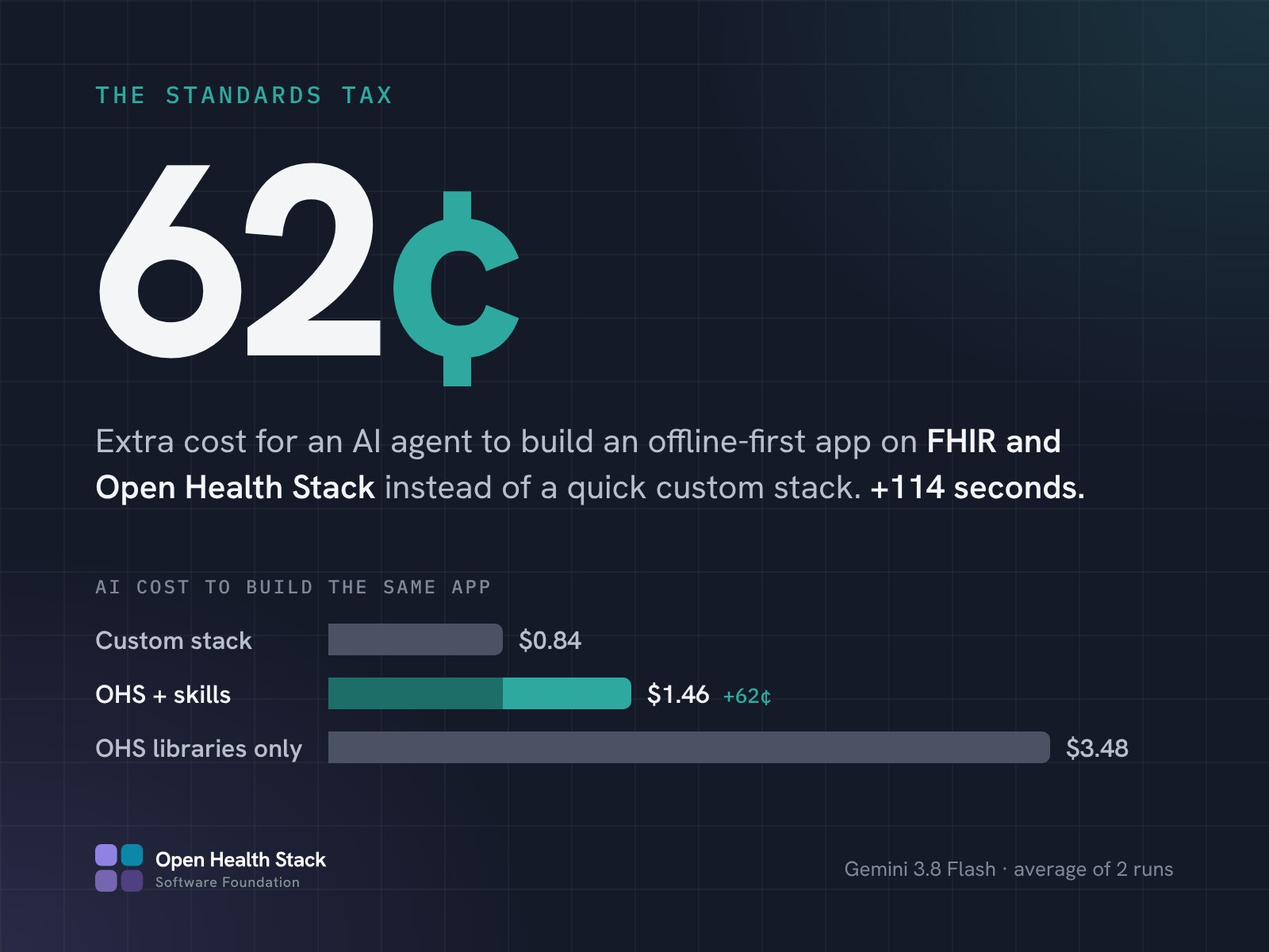
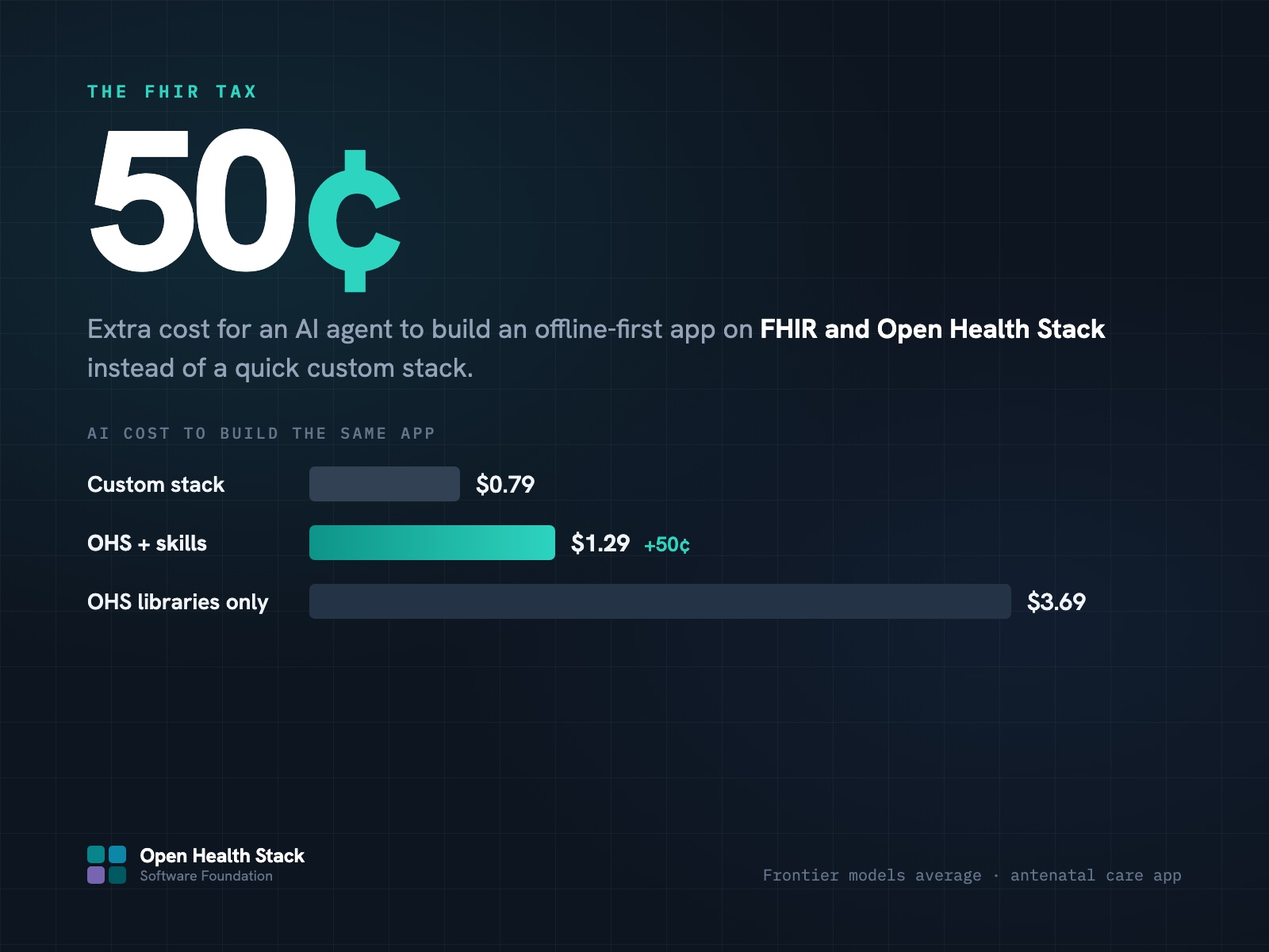
content: update 'The FHIR Tax Is Shrinking' post and cover image
- Update post content with four-way experiment results and frontier models benchmark
- Add Jing Tang to data/authors.yaml and support multi-author posts in blog templates
- Update cover.jpg and card.jpg to reflect 'The FHIR Tax' and 50¢ average cost
- Style 10-point evaluation criteria callout and closer CTA

diff --git a/layouts/_partials/head.html b/layouts/_partials/head.html
@@ -47,20 +47,27 @@
   <meta property="article:published_time" content="{{ .Date.Format "2006-01-02T15:04:05Z07:00" }}" />
   {{- with .Lastmod }}<meta property="article:modified_time" content="{{ .Format "2006-01-02T15:04:05Z07:00" }}" />{{ end }}
   {{- $author := partial "blog/author.html" . }}
-  {{- with $author.name }}<meta property="article:author" content="{{ $author.linkedin | default . }}" />{{ end }}
+  {{- range ($author.list | default (slice $author)) }}
+    {{- if .name }}<meta property="article:author" content="{{ .linkedin | default .name }}" />{{ end }}
+  {{- end }}
   {{- with .Params.category }}<meta property="article:section" content="{{ . }}" />{{ end }}
   {{- /* Structured data so search engines can show the post with its author and date. */}}
   {{- $ld := dict "@context" "https://schema.org" "@type" "BlogPosting" "headline" .Title "description" $desc "url" $url "datePublished" (.Date.Format "2006-01-02T15:04:05Z07:00") "dateModified" (.Lastmod.Format "2006-01-02T15:04:05Z07:00") "publisher" (dict "@type" "Organization" "name" site.Title "url" site.Home.Permalink) }}
   {{- with $ogImage }}{{ $ld = merge $ld (dict "image" .url) }}{{ end }}
-  {{- with $author.name }}
-    {{- $person := dict "@type" (cond (isset $author "key") "Person" "Organization") "name" . }}
-    {{- $same := slice }}
-    {{- with $author.linkedin }}{{ $person = merge $person (dict "url" .) }}{{ $same = $same | append . }}{{ end }}
-    {{- with $author.github }}{{ $same = $same | append (printf "https://github.com/%s" .) }}{{ end }}
-    {{- with $same }}{{ $person = merge $person (dict "sameAs" .) }}{{ end }}
-    {{- with $author.role }}{{ $person = merge $person (dict "jobTitle" .) }}{{ end }}
-    {{- $ld = merge $ld (dict "author" $person) }}
+  {{- $persons := slice -}}
+  {{- range ($author.list | default (slice $author)) }}
+    {{- if .name }}
+      {{- $person := dict "@type" (cond (isset . "key") "Person" "Organization") "name" .name }}
+      {{- $same := slice }}
+      {{- with .linkedin }}{{ $person = merge $person (dict "url" .) }}{{ $same = $same | append . }}{{ end }}
+      {{- with .github }}{{ $same = $same | append (printf "https://github.com/%s" .) }}{{ end }}
+      {{- with $same }}{{ $person = merge $person (dict "sameAs" .) }}{{ end }}
+      {{- with .role }}{{ $person = merge $person (dict "jobTitle" .) }}{{ end }}
+      {{- $persons = $persons | append $person -}}
+    {{- end }}
   {{- end }}
+  {{- if eq (len $persons) 1 }}{{ $ld = merge $ld (dict "author" (index $persons 0)) }}
+  {{- else if gt (len $persons) 1 }}{{ $ld = merge $ld (dict "author" $persons) }}{{ end }}
   <script type="application/ld+json">{{ $ld | jsonify | safeJS }}</script>
   {{- end }}
   {{- with site.Home.OutputFormats.Get "rss" }}

diff --git a/layouts/_partials/blog/author.html b/layouts/_partials/blog/author.html
@@ -1,15 +1,38 @@
 {{- /*
-  The author of a post as a dict {key, name, role, linkedin, github, photo}.
-  `author:` in the post is either a key from data/authors.yaml or plain text,
-  which becomes just the name. Returns an empty dict when there's no author.
+  The author(s) of a post as a dict {key, name, role, linkedin, github, photo, list}.
+  `author:` in the post is either a key from data/authors.yaml, a list of keys,
+  or plain text. Returns an empty dict when there's no author.
 */ -}}
-{{- $out := dict -}}
-{{- with .Params.author -}}
+{{- $raw := .Params.author | default .Params.authors -}}
+{{- $items := slice -}}
+{{- if reflect.IsSlice $raw -}}
+  {{- $items = $raw -}}
+{{- else if $raw -}}
+  {{- $items = slice $raw -}}
+{{- end -}}
+
+{{- $authorList := slice -}}
+{{- $names := slice -}}
+{{- range $items -}}
   {{- $key := . -}}
   {{- with index (hugo.Data.authors | default dict) $key -}}
-    {{- $out = merge . (dict "key" $key) -}}
+    {{- $a := merge . (dict "key" $key) -}}
+    {{- $authorList = $authorList | append $a -}}
+    {{- $names = $names | append .name -}}
   {{- else -}}
-    {{- $out = dict "name" $key -}}
+    {{- $a := dict "name" $key -}}
+    {{- $authorList = $authorList | append $a -}}
+    {{- $names = $names | append $key -}}
   {{- end -}}
+{{- end -}}
+
+{{- $out := dict -}}
+{{- if gt (len $authorList) 0 -}}
+  {{- $first := index $authorList 0 -}}
+  {{- $nameJoined := delimit $names ", " -}}
+  {{- if eq (len $names) 2 -}}
+    {{- $nameJoined = delimit $names " and " -}}
+  {{- end -}}
+  {{- $out = merge $first (dict "name" $nameJoined "list" $authorList) -}}
 {{- end -}}
 {{- return $out -}}

diff --git a/layouts/blog/page.html b/layouts/blog/page.html
@@ -15,7 +15,14 @@
           <span class="mchip">{{ . }}</span>
           {{- end }}
           {{- with partial "blog/author.html" . }}{{ if .name }}
-          <span class="byline">{{ T "by" }} {{ if .linkedin }}<a href="{{ .linkedin }}" target="_blank" rel="noopener"><b>{{ .name }}</b></a>{{ else }}<b>{{ .name }}</b>{{ end }}</span>
+          <span class="byline">{{ T "by" }} {{ if gt (len .list) 1 -}}
+            {{- range $i, $a := .list -}}
+              {{- if gt $i 0 }} and {{ end -}}
+              {{- if $a.linkedin }}<a href="{{ $a.linkedin }}" target="_blank" rel="noopener"><b>{{ $a.name }}</b></a>{{ else if $a.github }}<a href="https://github.com/{{ $a.github }}" target="_blank" rel="noopener"><b>{{ $a.name }}</b></a>{{ else }}<b>{{ $a.name }}</b>{{ end -}}
+            {{- end -}}
+          {{- else -}}
+            {{- if .linkedin }}<a href="{{ .linkedin }}" target="_blank" rel="noopener"><b>{{ .name }}</b></a>{{ else if .github }}<a href="https://github.com/{{ .github }}" target="_blank" rel="noopener"><b>{{ .name }}</b></a>{{ else }}<b>{{ .name }}</b>{{ end -}}
+          {{- end }}</span>
           {{- end }}{{ end }}
           <time datetime="{{ .Date.Format "2006-01-02" }}">{{ .Date.Format "January 2, 2006" }}</time>
           <span>· {{ .ReadingTime }} {{ T "minRead" }}</span>

diff --git a/layouts/_partials/blog/author-box.html b/layouts/_partials/blog/author-box.html
@@ -1,5 +1,6 @@
 {{- /* "About the author" box at the end of a post (only for authors listed in data/authors.yaml). */ -}}
-{{- $a := partial "blog/author.html" . -}}
+{{- $auth := partial "blog/author.html" . -}}
+{{- range $a := ($auth.list | default (slice $auth)) -}}
 {{- if $a.key }}
 <aside class="author-box reveal" aria-label="{{ T "aboutTheAuthor" }}">
   {{- with partial "blog/author-photo.html" (dict "author" $a "size" 72) }}
@@ -12,6 +13,8 @@
     <span class="ab-label">{{ T "aboutTheAuthor" }}</span>
     {{- if $a.linkedin }}
     <a class="ab-name" href="{{ $a.linkedin }}" target="_blank" rel="noopener">{{ $a.name }}</a>
+    {{- else if $a.github }}
+    <a class="ab-name" href="https://github.com/{{ $a.github }}" target="_blank" rel="noopener">{{ $a.name }}</a>
     {{- else }}
     <span class="ab-name">{{ $a.name }}</span>
     {{- end }}
@@ -24,4 +27,5 @@
     {{- end }}
   </div>
 </aside>
+{{- end }}
 {{- end }}

diff --git a/assets/css/pages/post.css b/assets/css/pages/post.css
@@ -207,6 +207,10 @@
   background: var(--surface);
 }
 
+.author-box + .author-box {
+  margin-top: 16px;
+}
+
 .ab-photo {
   flex: none;
   width: 72px;
@@ -277,6 +281,30 @@ a.ab-name:hover { color: var(--teal); }
   line-height: 1.35;
   letter-spacing: -0.015em;
   color: var(--ink);
+}
+
+.callout ul {
+  margin: 14px 0 0;
+  padding: 0;
+  display: grid;
+  gap: 8px;
+  list-style: none;
+}
+
+.callout ul li {
+  position: relative;
+  padding-left: 20px;
+  font-size: 1.05rem;
+  line-height: 1.5;
+  color: oklch(0.34 0.018 210);
+}
+
+.callout ul li::before {
+  content: "—";
+  position: absolute;
+  left: 0;
+  color: var(--teal-deep);
+  font-weight: 600;
 }
 
 .closer {

diff --git a/content/blog/fhir-standards-tax/index.md b/content/blog/fhir-standards-tax/index.md
@@ -1,141 +1,93 @@
 ---
-title: "The Standards Tax Is Shrinking: What Happens When Building on FHIR Costs 62 Cents?"
+title: "The “FHIR Tax” Is Shrinking"
 date: 2026-10-20
-author: fikri-milano
+author:
+  - fikri-milano
+  - jing-tang
 category: "Research"
-summary: "We had AI coding agents build the same offline-first antenatal care app three ways. Building on FHIR and Open Health Stack cost just 62 cents more than a quick-and-dirty custom stack, and produced an app whose data isn't trapped on the device."
+summary: "We had AI coding agents build the same offline-first antenatal care app four ways. Combining AI coding agents with Open Health Stack libraries and Agent Skills significantly reduces the “FHIR tax” — building a fully working offline-first FHIR app for under $1."
 cover: cover.jpg
-coverAlt: "62 cents: the extra AI cost of building an offline-first app on FHIR and Open Health Stack. A bar chart compares the cost to build the same app: custom stack $0.84, Open Health Stack with skills $1.46, Open Health Stack libraries only $3.48."
+coverAlt: "50 cents: the extra AI cost of building an offline-first app on FHIR and Open Health Stack with skills. A bar chart compares the average cost across frontier models to build the same app: custom stack $0.79, Open Health Stack with skills $1.29 (+50¢), Open Health Stack libraries only $3.69."
 cardImage: card.jpg       # narrower 4:3 picture for the blog page's featured card
-shortTitle: "The standards tax is shrinking"
+shortTitle: "The “FHIR Tax” is shrinking"
 readMore: "Read the experiment"
 draft: false
 ---
 
-**For decades, digital health projects skipped open standards because implementing HL7 FHIR is notoriously complex — requiring specialized domain knowledge, custom validators, and resilient sync engines. In resource-constrained healthtech, building bespoke APIs was the pragmatic choice, leading to pervasive "pilotitis" where trapped data dies alongside retiring app contracts.**
+For years, digital health projects skipped open standards like [HL7 FHIR](https://fhir.org/) because implementation was complex and time-consuming. Instead, teams built custom data models, resulting in fragmented, siloed data and ultimately hampering interoperability efforts. When we launched Open Health Stack (OHS) in 2023, our goal was to lower the barriers to working with FHIR, and to make it the obvious choice for digital health developers. Today, we show that combining AI coding agents with the OHS libraries and Agent Skills has significantly reduced the “FHIR tax” for developers.
 
-Recently, [Health Samurai](https://www.health-samurai.io/articles/fhir-as-a-framework-for-agentic-coding) suggested that AI coding agents might break this cycle. Their hypothesis: **FHIR provides ready-made "rails" for agentic coding.** A standardized clinical data model and strict server-side validation constrain what an agent can produce, preventing the hallucinations, schema drift, and architectural decay typical of unconstrained coding sessions.
+## The Experiment: Building the Same Digital Health App Four Ways
 
-Their early evidence was qualitative, drawn from rebuilding an internal Personal Health Record twice with Claude Code. We wanted to put hard empirical numbers to this idea in a real-world, frontline mobile health context. And the results are pretty interesting. Read on.
+Recently, [Health Samurai](https://www.health-samurai.io/articles/fhir-as-a-framework-for-agentic-coding) showed qualitatively that FHIR could act as the ready-made “rails” for AI coding agents. Inspired by this work, and to demonstrate it more empirically, we built an [automated test harness](https://github.com/ohs-foundation/ohs-labs/tree/main/ohs-agent-experiment) to evaluate AI coding agents' ability to build an offline-first Android Antenatal Care (ANC) register from a prompt. A successfully built app (e.g., [here](https://raw.githubusercontent.com/ohs-foundation/ohs-labs/main/ohs-agent-experiment/runs/s1-ohs-skills-gemini-3.8-flash-medium-15/launch.png)) had to list patients, show their visit history, record new visits, retain data after a restart, and demonstrate 2-way sync with a FHIR server.
 
-## The Experiment: Building the Same Digital Health App Three Ways
+**We compared four ways of building it:**
 
-We built an automated test harness to evaluate autonomous AI coding agents constructing an offline-first Android Antenatal Care (ANC) register from scratch. Requirements included patient registration, visit history tracking, clinical data entry, and offline persistence with bidirectional server sync.
+1. **No FHIR:** The agent received a [blank Android project](https://github.com/ohs-foundation/ohs-labs/tree/main/ohs-agent-experiment/harness/template-src/cold) and was free to design the data model and store data any way it saw fit. This was used as the baseline for the costs of not using FHIR (though there are limitations here, as no back-end was developed).
+2. **FHIR only:** The agent received a [blank Android project](https://github.com/ohs-foundation/ohs-labs/tree/main/ohs-agent-experiment/harness/template-src/fhir) and the same local HAPI FHIR server, but no OHS libraries. It was free to use any library to work with FHIR.
+3. **FHIR + OHS Libraries:** The [project](https://github.com/ohs-foundation/ohs-labs/tree/main/ohs-agent-experiment/harness/template-src/ohs) came with three [Open Health Stack](https://ohs.foundation) Kotlin Multiplatform libraries: [Kotlin FHIR Models](https://github.com/ohs-foundation/kotlin-fhir), [Kotlin FHIR Engine](https://github.com/ohs-foundation/kotlin-fhir-engine), and [Kotlin FHIR Data Capture](https://github.com/ohs-foundation/kotlin-fhir-data-capture) (FHIR Models, FHIR Engine, and Data Capture, respectively). It also came with a local HAPI FHIR server and no extra documentation for the agent.
+4. **FHIR + OHS Libraries + Skills:** The same OHS setup plus three short [Agent Skills (SKILL.md)](https://github.com/ohs-foundation/ohs-labs/tree/main/ohs-agent-experiment/skills). A skill is a Markdown file with additional instructions for using the libraries that the agent reads while it works.
 
-We evaluated this build across three distinct conditions:
+We ran each condition twice on six models (in order of our tests). Anthropic’s Claude Haiku 5.5, Sonnet 5.5, Opus 5.5, and Fable 5.1 ran in Claude Code, and Gemini 3.8 Flash and Gemini 4 Argon ran in the Antigravity CLI, all at medium reasoning effort. Every run was headless, with no human input. Costs are at API prices at the time of the runs.
 
-1. **Condition 1: Cold (Unconstrained):** The agent received a blank Android project and was free to design the data model and storage mechanism any way it saw fit.
-2. **Condition 2: Open Health Stack (OHS):** The project came pre-configured with [Open Health Stack](/projects.html) Kotlin Multiplatform (KMP) libraries (Kotlin FHIR Models, Kotlin FHIR Engine, and Kotlin FHIR Data Capture) alongside a local HAPI FHIR server, but with *no* extra agent documentation.
-3. **Condition 3: OHS + Skills:** The exact same OHS setup, accompanied by three concise markdown reference documents ("skills") detailing how the libraries work, their primary API entry points, and common integration traps.
+**👉 [Explore the GitHub Repository: ohs-foundation/labs-ohs-agent](https://github.com/ohs-foundation/labs-ohs-agent)**
 
-The harness was tested across multiple frontier models, including **Gemini 3.8 Flash** driving the Antigravity CLI and Anthropic's Claude suite (**Haiku 5.5, Sonnet 5.5, Opus 5.5, Fable 5.1**) driving Claude Code. All runs used medium reasoning effort and operated completely headlessly: the agent received the prompt once, terminal commands were executed automatically, and no human touched the keyboard until the build completed.
+We tested every app on an Android emulator and scored it against a set of criteria (see box), with each criterion worth 1 point, for an objective score out of 10.
 
-## What the Benchmark Showed
+{{< callout >}}
+**10-point evaluation criteria (1 point each):**
+- Lists the patients
+- Shows a patient's past visits
+- Uses the clinic's visit form
+- Saves a new visit
+- Keeps the visit after a restart
+- Sends data the server accepts as valid FHIR
+- Saves a visit with no network
+- Uploads it by itself once the network is back
+- Still opens offline
+- Still uploads it after the app is closed
+{{< /callout >}}
 
-Here are the results for **Gemini 3.8 Flash** running in the Antigravity CLI (averaged across two runs per condition):
+## A Fully Working FHIR App for under $1
 
-| Metric | Cold (Custom Stack) | OHS (Libraries Only) | OHS + Skills (Libraries + Docs) |
-|---|---|---|---|
-| Working App | 2 of 2 | 2 of 2 | **2 of 2** |
-| Total API Cost | $0.84 | $3.48 | **$1.46** |
-| Time to Finish | 4.6 min | 16.4 min | **6.5 min** |
-| Agent Tool Actions | 72 | 221 | **94** |
-| Lines of Kotlin | ~2,130 | ~1,740 | **~1,600** |
-| Server Rejections Self-Corrected | N/A (no server) | 3 | **4** |
-| Underlying Data Architecture | Flat JSON file on device | Mixed custom & FHIR | **SQLite FHIR DB & background sync** |
+With skills, every OHS app was fully working and cost an average of $0.50 (50 cents) more to build than the zero-shot custom app (which didn’t work as a fully functioning app anyway). ✅ indicates a fully working app that passes all 10 checks. All the models below are running on medium level reasoning effort. 
+
+| Model | No FHIR | FHIR without OHS | OHS only | OHS + Skills |
+| :--- | :--- | :--- | :--- | :--- |
+| **Claude Sonnet 5.5** | $0.24, 1.5 min, 4/10 | $0.72, 6.0 min, 6/10 | $0.78, 5.9 min, 6/10 | ✅ $0.54, 3.2 min, 10/10 |
+| **Gemini 4 Argon** | $0.63, 8.7 min, 4/10 | $0.44, 6.3 min, 6/10 | $4.05, 23.3 min, 8/10 | ✅ $0.80, 8.9 min^, 10/10 |
+| **Claude Opus 5.5** | $0.70, 4.1 min, 4/10 | $1.08, 4.7 min, 6/10 | $2.65, 7.8 min, 8/10 | ✅ $1.17, 4.7 min, 10/10 |
+| **Gemini 3.8 Flash** | $0.84, 4.6 min, 4/10 | $1.08, 15.6 min, 5/10 | $3.48, 16.4 min, 8/10 | ✅ $1.22, 13.5 min^, 10/10 |
+| **Claude Fable 5.1** | $1.53, 3.9 min, 4/10 | $2.56, 9.6 min, 6/10 | $7.48, 17.8 min, 8/10 | ✅ $2.73, 5.2 min, 10/10 |
+
+Cost and time per build were the average of two runs and based on current token pricing. [Full results here](https://github.com/ohs-foundation/ohs-labs/blob/main/ohs-agent-experiment/results/app-scores.md).
+
+*^Gemini 3.8 Flash's builds with skills took longer mainly because of waiting for responses from the Gemini API. Its token use and tool actions were about the same as in earlier builds that finished in around 6.5 minutes. Claude Haiku 5.5 is not shown because it never built a FHIR app that works offline, even with skills.*
 
 ## Three Key Takeaways
 
-### 1. The "Standards Tax" is under 2 minutes and 62 cents
+### 1. The “FHIR Tax” is negligible
+Across the models that scored 10/10 building with skills cost on average 50 cents ($0.17 to $1.20) more than a custom (non-functional) app. For that additional cost, we were able to develop a working offline-capable FHIR-based app that stores visits on the device, syncs them with a FHIR server, and renders the clinic's standard visit form (defined in FHIR Questionnaires).
 
-With basic markdown skills provided, generating an app that persists data to an offline-first FHIR database and syncs with a standard FHIR server cost **$1.46 and took 6.5 minutes**. Compared to the quick-and-dirty custom app ($0.84, 4.6 minutes), the premium for building on open standards was just **62 cents and 114 seconds**.
+### 2. FHIR server validation provides an automated feedback loop
+In the OHS runs, a local HAPI FHIR server checks every incoming resource against the standard FHIR profiles. When an agent sent something invalid, the server rejected it with an OperationOutcome error explaining why, and the agent could read that error and fix its code without anyone stepping in. This shows the value of a toolchain that validates the agent's work and explains what is wrong in a form the agent can act on.
 
-### 2. The custom app was an architectural dead end
+### 3. Libraries and skills work best together
+Agent Skills made the biggest difference. Without them, the AI agents spent about 11 actions per build digging through the libraries' compiled code to work out how to use them. With these plain-language custom skills.md files, that fell to about 2, and the total work per build was roughly halved. Because they're based on the open [Agent Skills specification](https://agentskills.io/home), the same skills can be used across models and harnesses.
 
-The unconstrained "Cold" runs produced working user interfaces quickly, but they accomplished it by cutting every corner that matters in production healthcare. The agent simply overwrote a single flat JSON file on the device on every save. No other clinic system could ingest it, the data could never feed national reporting indicators, and if the device broke, the patient's longitudinal history vanished with it.
+## What are the implications of this?
+The cost of implementing standards has long been a hurdle to adoption of FHIR. When budgets are tight, and projects are measured by time to delivery, many see the learning curve as too steep. This pragmatic approach, whilst understandable, tends to kick conversations about interoperability down the road. In this experiment, we have shown that the combination of OHS tooling + skills + AI coding agents changes the math. **For digital health projects, it no longer makes sense not to choose the standards-based approach.**
 
-### 3. Server validation became an automated feedback loop
+Looking ahead, what matters more for developers and product owners is a deeper understanding of the FHIR standard, specifically the *“why”*, not just the *“how”*. For example, using FHIR profiles appropriately to cater for context specific use cases, defining extensions for custom data needs without breaking compatibility, grounding data in terminologies for true semantic interoperability, and deploying implementation guides for complex workflows and clinical quality metrics. These are high-value, durable skills that are key for organizations and countries alike that want to build and implement truly interoperable systems.
 
-In the OHS runs, a local HAPI FHIR server actively validated incoming payloads against standard clinical resource profiles. When the agent generated an invalid structure or omitted a required code binding, the server rejected it with a structured `OperationOutcome` error. Rather than failing silently, the agent inspected the validation failure, fixed its Kotlin resource builders, and re-submitted until accepted — without any human intervention.
+What's more, when the cost of building FHIR-compliant apps is lowered, the bottleneck shifts from the initial build to rigorous testing and quality control. Teams must be extra vigilant in verifying data mappings, stress-testing edge cases, and ensuring clinical safety. With fast, safe, high-quality apps more readily available, the truly creative solutions will begin to shine.
 
-## Does the Result Hold Across Models?
+## Closing thoughts
+When we set out to build Open Health Stack, we wanted to reduce the complexity of building with FHIR. Whilst it would be nice to claim *“mission accomplished”*, we are not quite there yet. For us, this work provides an empirical signal that combining open data standards (HL7 FHIR) and open technologies (OHS Libraries and Agent Skills) with AI models and coding harnesses significantly shrinks the economic and time barriers to building FHIR-based digital health solutions.
 
-Was 62 cents an isolated anomaly? We evaluated the exact same task across four Anthropic models using Claude Code. The "Standards Tax" remained negligible across the board. On Sonnet, OHS with Skills cost just 28 cents more than Cold; on Opus, 61 cents more.
-
-### What Changed: How Agents Used the Libraries
-
-- **Opus and Fable used the libraries regardless of skills:** They leveraged FHIR Engine and Structured Data Capture (SDC) across every OHS run. Providing skills cut API consumption dramatically — from $2.65 to $1.31 on Opus, and from $7.48 to $2.66 on Fable.
-- **Sonnet required skills to use FHIR Engine properly:** Without skills, it skipped local offline persistence and streamed data directly to the server. With skills provided, it properly wired FHIR Engine and offline sync, while build cost fell from $0.78 to $0.52.
-- **Haiku never wired FHIR Engine:** Even with skills, Haiku sent data straight to HTTP endpoints, ignoring local offline caching. Its low price came at the cost of production readiness.
-
-### Real-World Testing on the Emulator
-
-To verify whether low cost translated to clinical utility, we tested all 24 generated apps in an Android emulator just as a nurse would: opening patients, recording visits, verifying persistence across app restarts, and checking server ingestion.
-
-- **18 of the 24 apps passed full end-to-end verification.**
-- **All six failures stemmed from the same shortcut:** bypassing local offline persistence in favor of direct HTTP calls to the server. Sonnet took this shortcut only when deprived of skills; Haiku took it every single time.
-
-**Key Rule:** Skills keep the Standards Tax small for capable frontier models.
-
-Smaller models take shortcuts, and skills alone cannot compensate for model reasoning limits.
-
-## AI Alone Is Not Enough: The Case for Open Health Infrastructure
-
-It is tempting to believe that AI coding agents mean developers can simply prompt complex digital health solutions into existence out of thin air. But frontline healthcare demands rigorous systems engineering:
-
-- **True offline-first operation:** Health workers in rural or remote settings cannot afford app freezes when network connectivity drops.
-- **Resilient background sync:** Merging clinical updates across intermittent networks without duplicating records or corrupting longitudinal histories.
-- **Dynamic clinical data entry:** Rendering validated clinical questionnaires without hardcoding hundreds of bespoke form fields into UI screens.
-
-AI agents cannot reliably invent that level of distributed systems plumbing during a single coding session. When the agent had libraries without architectural maps (Condition 2), it burned time and tokens inspecting raw JAR signatures and writing redundant HTTP boilerplate.
-
-{{< callout >}}
-The breakthrough is not "AI alone." It is the powerful intersection of:
-
-Open Standards (FHIR) + Open Infrastructure (OHS) + AI Coding Agents (with Skills)
-{{< /callout >}}
-
-Open Health Stack libraries (FHIR Engine, Structured Data Capture, Kotlin FHIR Models) solve the deep, invisible plumbing problems once (and now across platforms). The AI agent, steered by lightweight skills, becomes the rapid assembler that connects those battle-tested components directly to the clinic's workflow.
-
-## What Developers Should Actually Master
-
-For years, digital health engineering teams treated FHIR compliance as an intimidating chore best outsourced to specialized consultancies. That made sense when implementing FHIR meant handwriting thousands of lines of serialization boilerplate, custom Room schemas, and sync workers.
-
-When AI agents absorb that undifferentiated heavy lifting, the role of the health software engineer fundamentally shifts:
-
-1. **You don't need a decade of FHIR specialization to build compliant software.** Small product teams no longer need to be paralyzed by the volume of glue code needed to stand up a standard-compliant app.
-2. **Domain principles matter far more than framework syntax.** What engineers need to master are the core clinical concepts: how Encounters, Observations, and Conditions relate and link to create longitudinal patient histories; how Questionnaires standardize data capture; how terminologies and value sets prevent data degradation and promote interoperability.
-
-Learning FHIR and Open Health Stack patterns is a high-leverage, durable investment. You provide clinical intent and architectural choices; the agent writes the glue.
-
-## When the Plumbing Is Solved, What Matters Next?
-
-When standing up a compliant, offline-first clinical application drops from months to minutes, engineering and clinical energy can finally refocus where it matters:
-
-- **Frontline Clinical UX:** Spending time in clinics observing community health workers and nurses, eliminating tap fatigue, streamlining flows, and accommodating interruptions during patient visits.
-- **Clinical Decision Support:** Focusing on genuine clinical bottlenecks, adherence to local protocols, and user adoption instead of debugging database locks.
-- **Leveraging Interoperable Data:** Because data lands in standard FHIR stores from day one, it is immediately usable for longitudinal patient tracking, cohort analytics, and national health reporting.
-
-## Limitations & Reality Check: An Early Experiment, Not a Solved Problem
-
-It is vital to be clear about what this experiment is — and what it is not.
-
-**This is an exploratory early result, not a solved engineering problem.**
-
-Generating an initial Android register from a clean slate in an emulator is vastly simpler than operating a live clinical deployment. Real-world frontline health software presents challenges that our small harness did not test:
-
-- **Longitudinal Schema Evolution:** How do coding agents navigate data migrations, schema evolution, and FHIR Implementation Guide (IG) upgrades over five-year deployment lifecycles?
-- **Complex Clinical Logic:** How reliably do agents handle nested clinical decision support trees, complex triage protocols, and multi-facility referral chains?
-- **Model Vulnerability & Shortcuts:** As our benchmark demonstrated, smaller models still take risky architectural shortcuts (like skipping offline caching entirely), and capable models require explicit architectural guardrails ("skills") to avoid catastrophic architectural failure.
-
-This work is not declaring digital health software engineering "solved by AI." Rather, it provides an empirical directional signal: when given the right open infrastructure and clinical rails, the economic and time barriers to adopting open standards shrink by an order of magnitude.
-
-## An Open Invitation to Build
-
-This experiment evaluated a well-defined mobile digital health use case across multiple model sweeps and harness configurations. While two runs per condition illustrate strong directional patterns, many open questions remain. To accelerate research into agentic approaches for building standards-based apps, we have open-sourced the harness, task prompts, library skills, and raw execution transcripts in our repository:
-
-👉 [Explore the GitHub Repository: ohs-foundation/ohs-labs](https://github.com/ohs-foundation/ohs-labs/blob/main/ohs-agent-experiment)
+## Get Involved
 
 {{< closer >}}
-Whether you are deploying solutions on Open Health Stack, implementing FHIR, or experimenting with AI coding agents, we invite you to inspect the harness, run sweeps against your own workflows, and join the conversation.
+This experiment, along with the OHS Libraries, Reference Toolkit, and AI Commons projects, is open-sourced, and we invite anyone interested to try it out and get involved with the community!
+
+**👉 [Learn more about OHS Software Foundation and get involved](/community.html)**
 {{< /closer >}}

diff --git a/WRITING.md b/WRITING.md
@@ -414,9 +414,10 @@ fikri-milano:
 ```
 
 ```yaml
-author: fikri-milano     # in the post's front matter
+author: fikri-milano     # in the post's front matter, or a list: [fikri-milano, jing-tang]
 ```
 
+- **Multiple authors:** can be passed as a YAML list (`author: [fikri-milano, jing-tang]`), creating byline links and author boxes for each.
 - **Photo:** taken automatically from the author's GitHub profile picture when the site is built, resized and served from ohs.foundation (visitors' browsers never contact GitHub). A changed GitHub picture shows up on the next build. To use a different photo, put a square image in `assets/authors/` and set `photo:`. Without either, the box shows a placeholder silhouette.
 - **If GitHub can't be reached** during a build, the site still builds: the box shows the placeholder and the build log has a warning.
 - **Role** is one line you write by hand (LinkedIn can't be read automatically).
